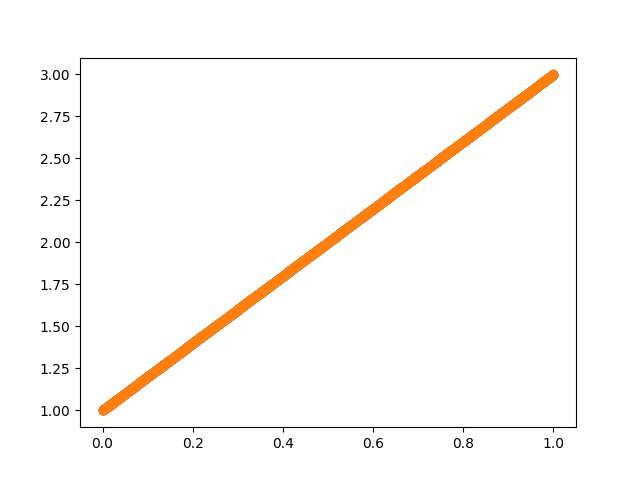
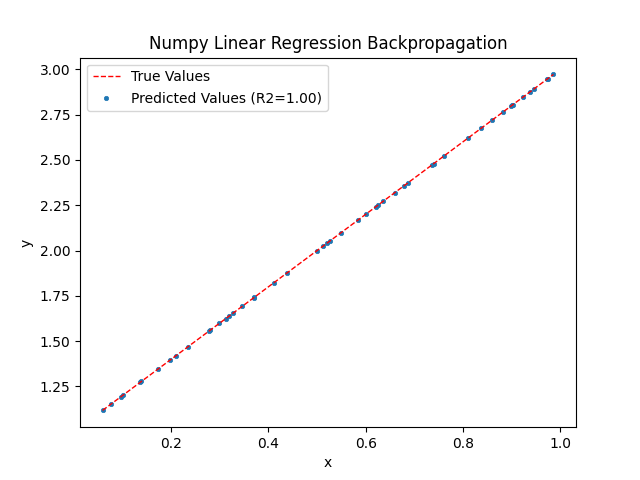
implementations visual and timing

diff --git a/LinReg.py b/LinReg.py
@@ -1,12 +1,12 @@
 import numpy as np
 import torch.nn as nn
 import torch
-from sklearn.preprocessing import MinMaxScaler
+from sklearn.model_selection import train_test_split
 from sklearn.metrics import r2_score
 import warnings
 import matplotlib.pyplot as plt
 from modules import timeit
-import time
+import pandas as pd
 
 warnings.filterwarnings("ignore")
 
@@ -30,6 +30,7 @@ class NumpyLinReg:
         derivative = - (y - self.weights @ x.T - self.bias) # SE = 1/2 * (y - y')^2
         self.bias -= self.lr*derivative
     
+    @timeit
     def train(self, x, y, epochs=100):
         xy = np.random.permutation(np.hstack((x, y))) # shuffle
         x, y = xy[:, :-1], xy[:, -1]
@@ -56,6 +57,7 @@ class NumpyLinRegCloseForm:
         self.bias = bias
         self.weights = None
 
+    @timeit
     def fit(self, x, y):
         if self.bias:
             x = np.hstack((x, np.ones((x.shape[0], 1))))
@@ -77,7 +79,7 @@ class NumpyLinRegCloseForm:
 
 
 class TorchLinReg(nn.Module):
-    def __init__(self, in_features, bias=False, lr=0.1, device='cuda:0'):
+    def __init__(self, in_features, bias=False, lr=0.1, device=None):
         super().__init__()
         self.l = nn.Linear(in_features, 1, bias=bias)
         self.lr = lr
@@ -90,6 +92,7 @@ class TorchLinReg(nn.Module):
             x = x.to(self.device)
         return self.l(x)
 
+    @timeit
     def train(self, x, y, epochs=100):
         if self.device:
             x, y = x.to(self.device), y.to(self.device)
@@ -101,7 +104,6 @@ class TorchLinReg(nn.Module):
             optimizer.zero_grad()
             loss.backward()
             optimizer.step()
-        return self
     
     def validate(self, x, y):
         y_pred = self.forward(x)
@@ -111,55 +113,65 @@ class TorchLinReg(nn.Module):
 
 if __name__ == "__main__":
 
-    x = np.arange(0, 1000, 1, dtype=np.float32).reshape(-1, 1)
+    # REVERSE COMMENTS HERE TO SWITCH BETWEEN LR AND MLR (no visualization)
+    x = np.arange(0, 1000, 1, dtype=np.float32).reshape(-1, 1)/1000
     # x = np.hstack((x, x*1.5))
-    x = MinMaxScaler().fit_transform(x)
-    # y = np.sum(x, axis=1).reshape(-1, 1) + 1
+    # y = np.sum(x, axis=1).reshape(-1, 1) + 0.1
     y = x*2 + 1
+
+    x_train, x_test, y_train, y_test = train_test_split(x, y, test_size=0.05, random_state=42)
 
     print(x.shape, y.shape)
 
-    def NumpyLinReg_(x, y):
-        model = NumpyLinReg(x.shape[1], bias=True, lr=1e-2)
-        start = time.time()
-        model.train(x, y)
-        print(time.time() - start)
-        print(model.validate(x, y))
-        # print(model.weights, model.bias)
-        # plt.scatter(x, model.forward(x))
-        # plt.scatter(x, y)
-        # plt.savefig("NumpyLinReg.png")
-        # plt.close()
+    model = NumpyLinReg(x.shape[1], bias=True, lr=1e-5 if x.shape[1] == 2 else 1e-2)
+    model.train(x_train, y_train)
+    nlt_metrics = model.validate(x_test, y_test)
+    nlt_weights = np.hstack((model.weights, model.bias))
 
-    NumpyLinReg_(x, y)
+    plt.plot((min(x_test), max(x_test)), (min(y_test), max(y_test)), linestyle='--', color='red', linewidth=1, label='True Values')
+    plt.scatter(x_test, model.forward(x_test), s=10, linewidths=0.5, label=f'Predicted Values (R2={nlt_metrics[1]:.2f})')
+    plt.xlabel('x')
+    plt.ylabel('y')
+    plt.title('Numpy Linear Regression Backpropagation')
+    plt.legend()
+    plt.savefig("NumpyLinReg.png")
+    plt.close()
 
-    def closed_form(x, y):
-        closed = NumpyLinRegCloseForm(bias=True)
-        start = time.time()
-        closed.fit(x, y)
-        print(time.time() - start)
-        print(closed.validate(x, y))
-        # print(closed.weights)
-        # plt.scatter(x, closed.forward(x))
-        # plt.scatter(x, y)
-        # plt.savefig("NumpyLinRegCloseForm.png")
-        # plt.close()
+
+    closed = NumpyLinRegCloseForm(bias=True)
+    closed.fit(x_train, y_train)
+    nltc_metrics = closed.validate(x_test, y_test)
+    clr_weights = closed.weights.reshape(-1)
     
-    closed_form(x, y)
+    plt.plot((min(x_test), max(x_test)), (min(y_test), max(y_test)), linestyle='--', color='red', linewidth=1, label='True Values')
+    plt.scatter(x_test, model.forward(x_test), s=10, linewidths=0.5, label=f'Predicted Values (R2={nltc_metrics[1]:.2f})')
+    plt.xlabel('x')
+    plt.ylabel('y')
+    plt.title('Numpy Linear Regression Closed Form')
+    plt.legend()
+    plt.savefig("NumpyLinRegCloseForm.png")
+    plt.close()
+    
+    x_train, y_train = torch.from_numpy(x_train), torch.from_numpy(y_train)
+    x_test, y_test = torch.from_numpy(x_test), torch.from_numpy(y_test)
 
-    x, y = torch.from_numpy(x), torch.from_numpy(y)
+    model = TorchLinReg(x.shape[1], bias=True, lr=1e-1, device=None)
+    model.train(x_train, y_train)
+    tlr_metrics = model.validate(x_test, y_test)
+    tlt_weights = np.hstack((model.l.weight.detach().numpy().reshape(-1), model.l.bias.detach().numpy()))
+    
+    plt.plot((min(x_test), max(x_test)), (min(y_test), max(y_test)), linestyle='--', color='red', linewidth=1, label='True Values')
+    plt.scatter(x_test, model.forward(x_test).detach().numpy(), s=10, linewidths=0.5, label=f'Predicted Values (R2={tlr_metrics[1]:.2f})')
+    plt.xlabel('x')
+    plt.ylabel('y')
+    plt.title('Torch Linear Regression Backpropagation')
+    plt.legend()
+    plt.savefig("TorchLinReg.png")
+    plt.close()
 
-    def TorchLinReg_(x, y):
-        model = TorchLinReg(x.shape[1], bias=True, lr=1e-1, device=None)
-        start = time.time()
-        model.train(x, y)
-        print(time.time() - start)
-        print(model.validate(x, y))
-        # print(model.l.weight, model.l.bias)
-        # plt.scatter(x, model.forward(x).detach().numpy())
-        # plt.scatter(x, y)
-        # plt.savefig("TorchLinReg.png")
-        # plt.close()
+    data = np.vstack((nlt_metrics, nltc_metrics, tlr_metrics))
+    data = np.hstack((data, np.vstack((nlt_weights, clr_weights, tlt_weights)))).round(3)
+    metrics = pd.DataFrame(columns=['MSE', 'R2']+[f'weight_{i}' for i in range(x.shape[1])]+['bias'], index=['NumpyLinReg', 'NumpyLinRegCloseForm', 'TorchLinReg'], data=data)
+    print(metrics.to_string())
 
-    TorchLinReg_(x, y)
 
